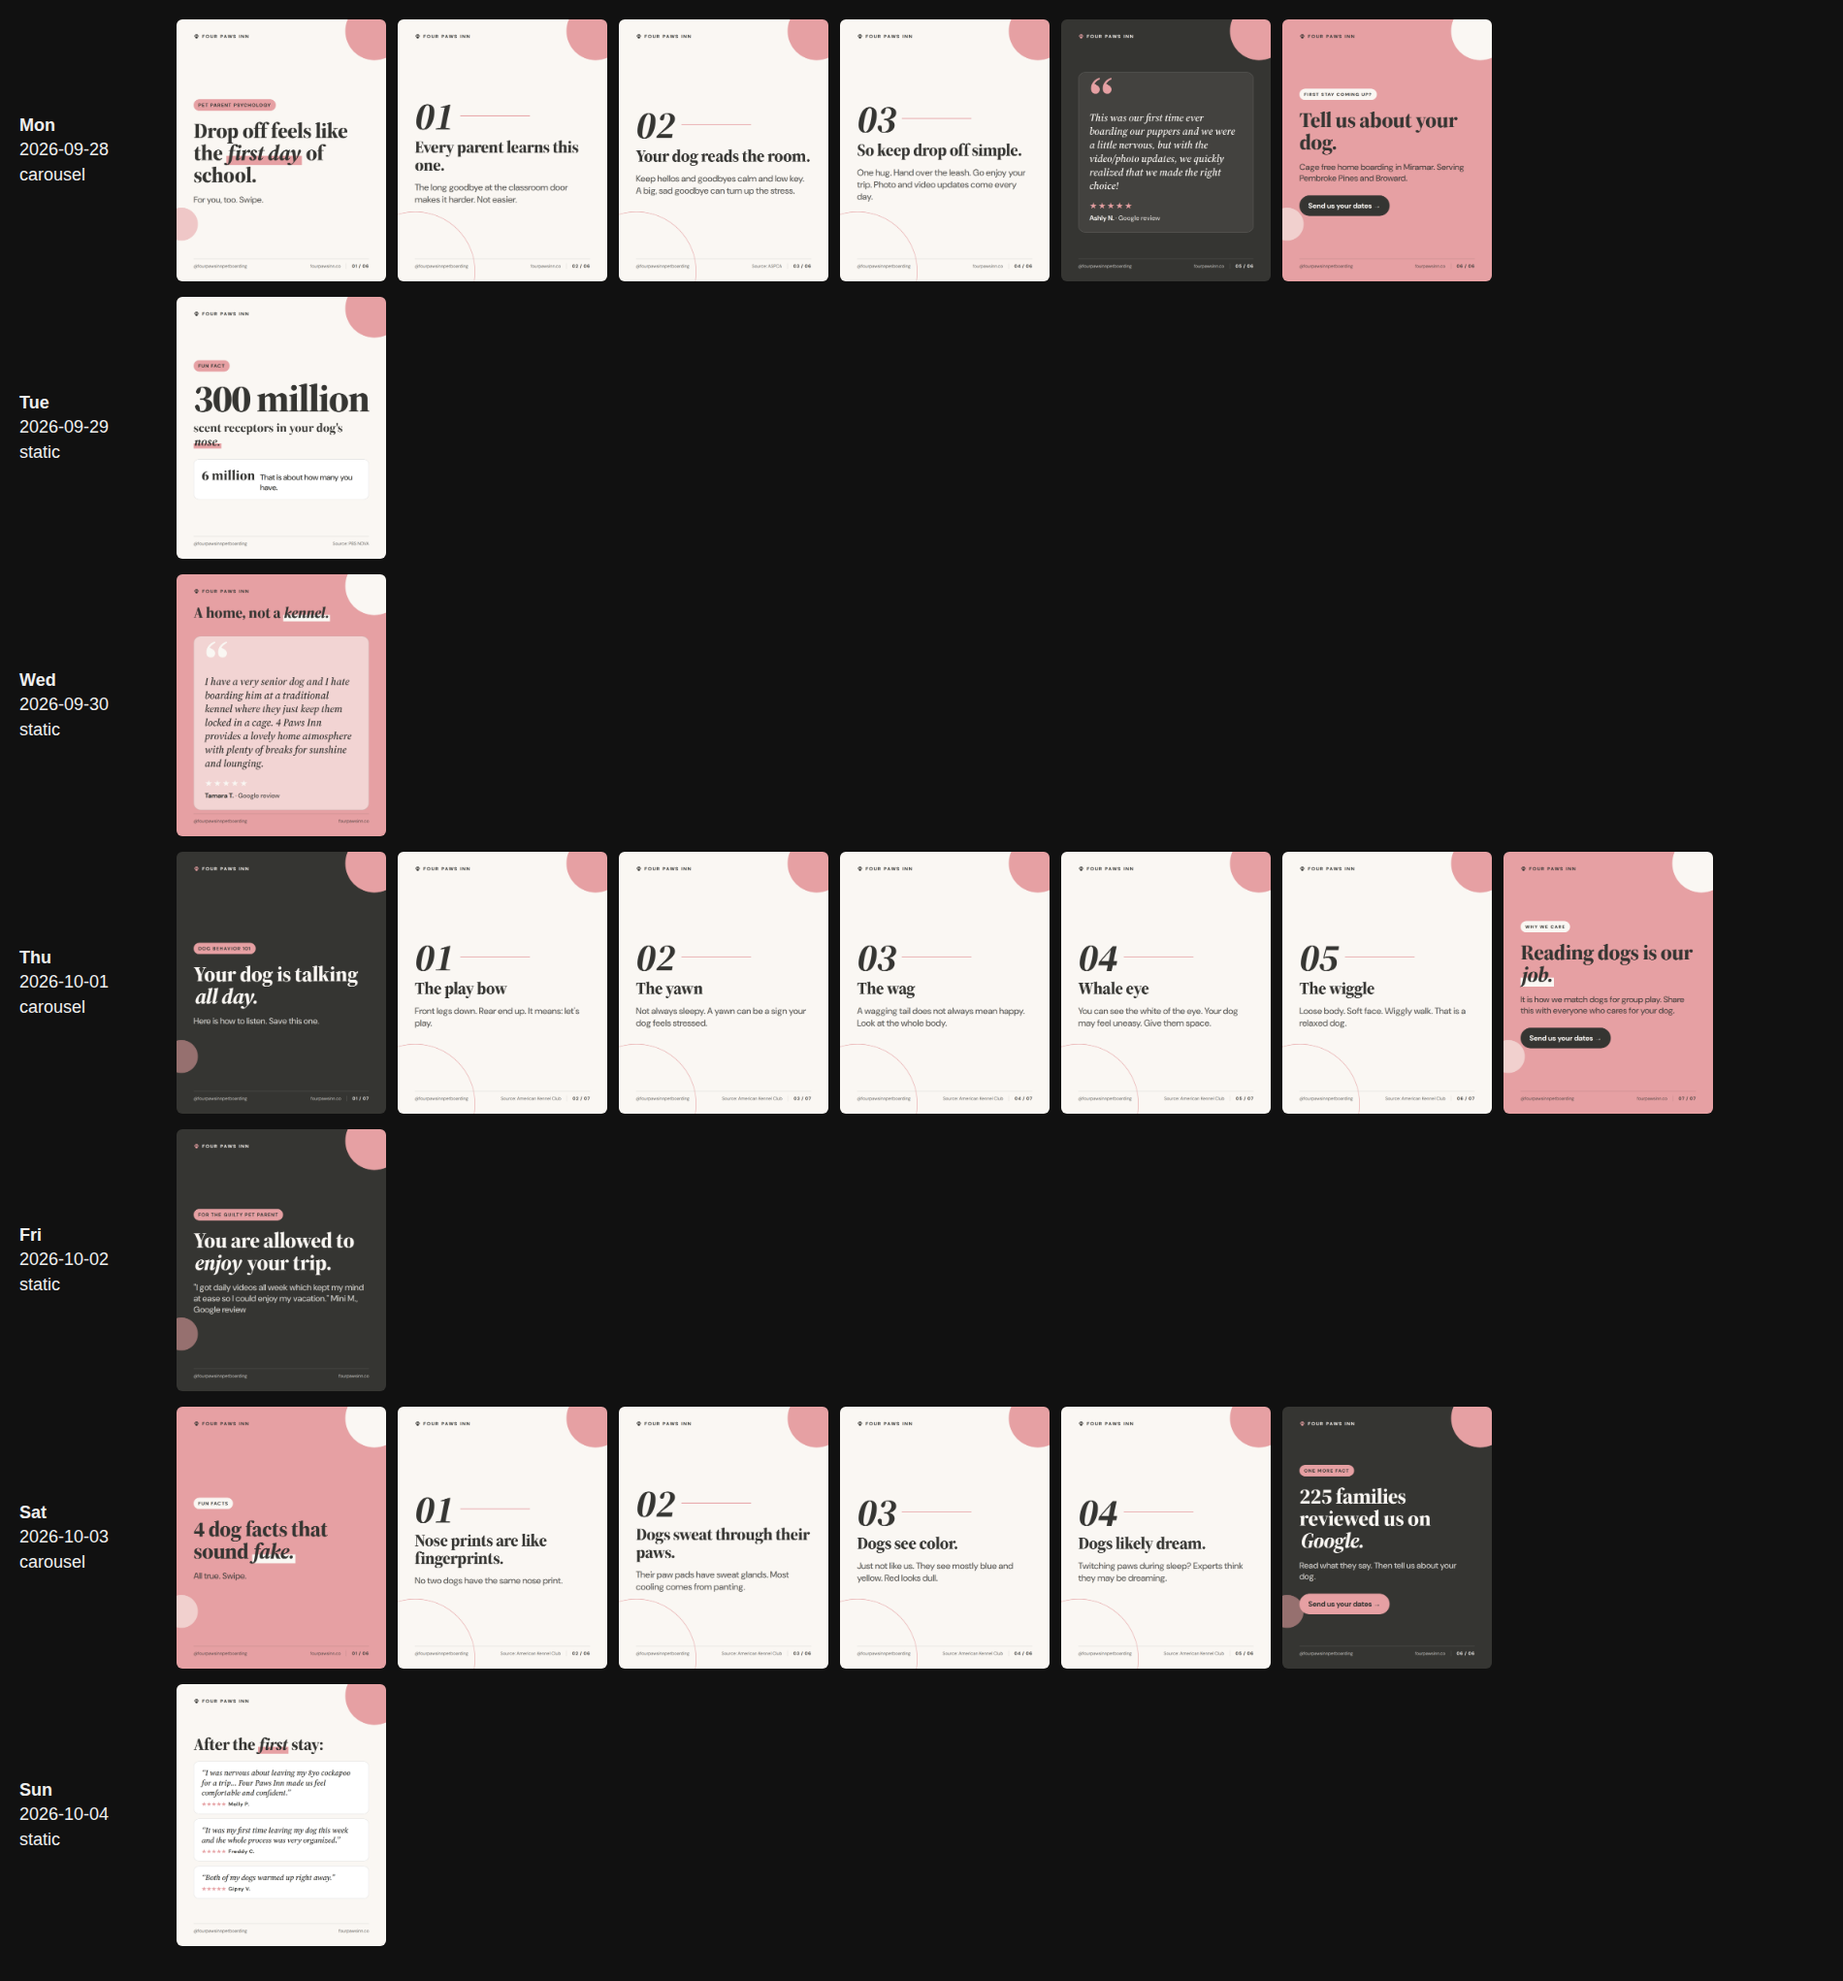
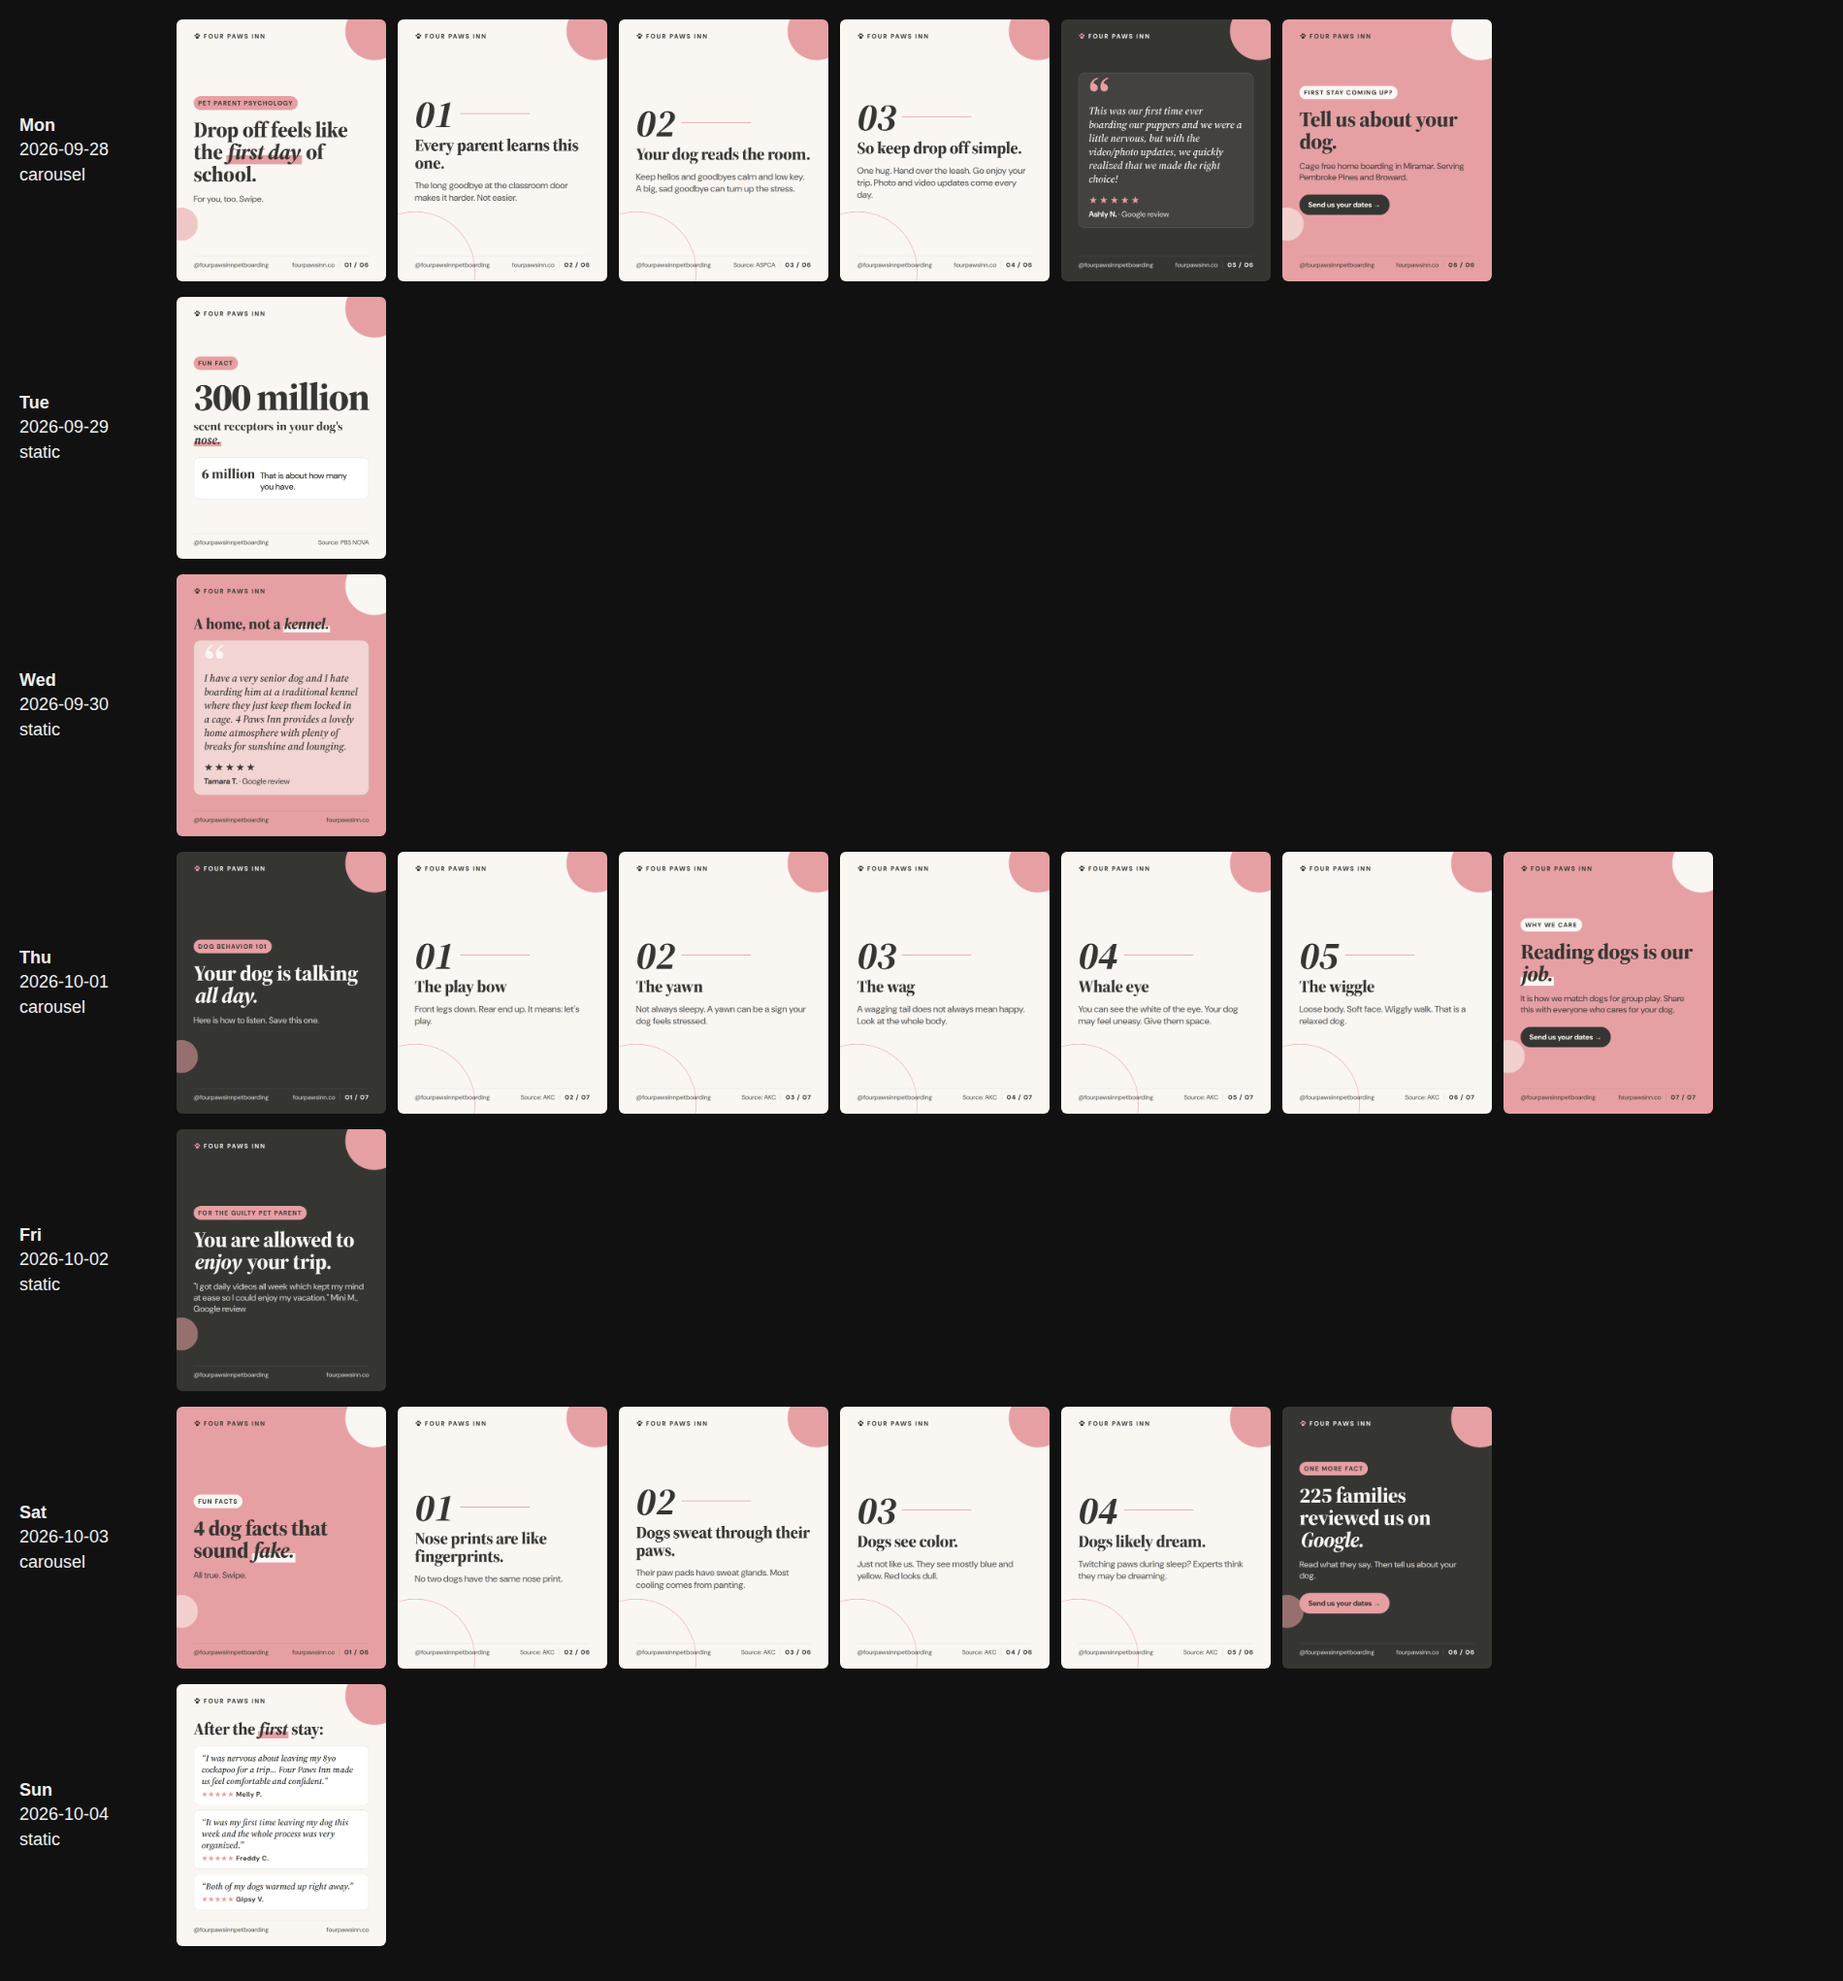
Enlarge small text for phone legibility and fix star contrast
Footer, wordmark, tags, reviewer names and review wall text enlarged so
nothing reads under about 11px on a 390px phone feed. Stars now use a
per theme color so they stay visible on pink cards. Quote layout
tightened. Runbook adds a phone size check.

Claude-Session: https://claude.ai/code/session_01CuiBP4cscBkzuvo8JUyMNz

diff --git a/scripts/morning-posts/render.js b/scripts/morning-posts/render.js
@@ -24,9 +24,9 @@ const H = 1350;
 // Pink is for shapes, highlights and accents. Text is always charcoal or cream so it stays readable.
 const BRAND = { cream: "#FAF7F3", pink: "#E6A0A3", charcoal: "#353532" };
 const THEMES = {
-  cream: { bg: BRAND.cream, fg: BRAND.charcoal, accent: BRAND.pink, ink: BRAND.charcoal, mark: BRAND.pink, soft: "rgba(53,53,50,0.78)", card: "#FFFFFF", line: "rgba(53,53,50,0.14)", btnBg: BRAND.charcoal, btnFg: BRAND.cream, kickBg: BRAND.pink, kickFg: BRAND.charcoal, shape: BRAND.pink },
-  pink: { bg: BRAND.pink, fg: BRAND.charcoal, accent: BRAND.charcoal, ink: BRAND.charcoal, mark: BRAND.cream, soft: "rgba(53,53,50,0.85)", card: "rgba(250,247,243,0.6)", line: "rgba(53,53,50,0.2)", btnBg: BRAND.charcoal, btnFg: BRAND.cream, kickBg: BRAND.cream, kickFg: BRAND.charcoal, shape: BRAND.cream },
-  charcoal: { bg: BRAND.charcoal, fg: BRAND.cream, accent: BRAND.pink, ink: BRAND.pink, mark: "transparent", soft: "rgba(250,247,243,0.78)", card: "rgba(250,247,243,0.07)", line: "rgba(250,247,243,0.18)", btnBg: BRAND.pink, btnFg: BRAND.charcoal, kickBg: BRAND.pink, kickFg: BRAND.charcoal, shape: BRAND.pink },
+  cream: { bg: BRAND.cream, fg: BRAND.charcoal, accent: BRAND.pink, ink: BRAND.charcoal, mark: BRAND.pink, soft: "rgba(53,53,50,0.78)", card: "#FFFFFF", line: "rgba(53,53,50,0.14)", btnBg: BRAND.charcoal, btnFg: BRAND.cream, kickBg: BRAND.pink, kickFg: BRAND.charcoal, shape: BRAND.pink, star: BRAND.pink },
+  pink: { bg: BRAND.pink, fg: BRAND.charcoal, accent: BRAND.charcoal, ink: BRAND.charcoal, mark: BRAND.cream, soft: "rgba(53,53,50,0.85)", card: "rgba(250,247,243,0.6)", line: "rgba(53,53,50,0.2)", btnBg: BRAND.charcoal, btnFg: BRAND.cream, kickBg: BRAND.cream, kickFg: BRAND.charcoal, shape: BRAND.cream, star: BRAND.charcoal },
+  charcoal: { bg: BRAND.charcoal, fg: BRAND.cream, accent: BRAND.pink, ink: BRAND.pink, mark: "transparent", soft: "rgba(250,247,243,0.78)", card: "rgba(250,247,243,0.07)", line: "rgba(250,247,243,0.18)", btnBg: BRAND.pink, btnFg: BRAND.charcoal, kickBg: BRAND.pink, kickFg: BRAND.charcoal, shape: BRAND.pink, star: BRAND.pink },
 };
 // Older week files used these names.
 THEMES.dark = THEMES.charcoal;
@@ -58,15 +58,15 @@ body{background:${t.bg};color:${t.fg};font-family:"DM Sans",sans-serif;position:
 .blob.b1{width:300px;height:300px;right:-90px;top:-90px}
 .blob.b2{width:170px;height:170px;left:-60px;bottom:210px;opacity:.55}
 .arc{position:absolute;left:-220px;bottom:-260px;width:620px;height:620px;border-radius:50%;border:3px solid ${t.shape};opacity:.8}
-.top{position:absolute;top:72px;left:88px;right:88px;display:flex;justify-content:space-between;align-items:center;font-size:24px;font-weight:700;letter-spacing:.2em;text-transform:uppercase;z-index:2}
+.top{position:absolute;top:66px;left:88px;right:88px;display:flex;justify-content:space-between;align-items:center;font-size:32px;font-weight:700;letter-spacing:.2em;text-transform:uppercase;z-index:2}
 .top .brand{display:flex;align-items:center;gap:14px}
-.top .brand i{display:block;width:30px;height:30px;color:${t.ink}}
-.bottom .count{margin-left:28px;padding-left:28px;border-left:2px solid ${t.line};font-weight:700;letter-spacing:.1em;color:${t.fg}}
-.bottom{position:absolute;bottom:64px;left:88px;right:88px;display:flex;justify-content:space-between;align-items:center;font-size:22px;color:${t.soft};border-top:2px solid ${t.line};padding-top:22px;z-index:2}
-.stage{position:absolute;top:170px;bottom:150px;left:88px;right:88px;display:flex;flex-direction:column;justify-content:center;z-index:2}
+.top .brand i{display:block;width:38px;height:38px;color:${t.ink}}
+.bottom .count{margin-left:24px;padding-left:24px;border-left:2px solid ${t.line};font-weight:700;letter-spacing:.1em;color:${t.fg}}
+.bottom{position:absolute;bottom:64px;left:88px;right:88px;display:flex;justify-content:space-between;align-items:center;font-size:32px;font-weight:500;color:${t.soft};border-top:2px solid ${t.line};padding-top:24px;z-index:2}
+.stage{position:absolute;top:160px;bottom:160px;left:88px;right:88px;display:flex;flex-direction:column;justify-content:center;z-index:2}
 h1,h2,.h1,.h2,.stat,.qhead,.wtitle,.statlabel{font-family:"Source Serif 4",serif}
 em{font-style:italic;color:${t.fg};background:linear-gradient(transparent 62%, ${t.mark} 62%, ${t.mark} 92%, transparent 92%);padding:0 .06em}
-.kicker{display:inline-block;align-self:flex-start;font-size:24px;font-weight:700;letter-spacing:.14em;text-transform:uppercase;padding:14px 24px;background:${t.kickBg};color:${t.kickFg};border-radius:999px;margin-bottom:44px}
+.kicker{display:inline-block;align-self:flex-start;font-size:32px;font-weight:700;letter-spacing:.14em;text-transform:uppercase;padding:14px 24px;background:${t.kickBg};color:${t.kickFg};border-radius:999px;margin-bottom:44px}
 .h1{font-size:112px;line-height:1.02;font-weight:800;letter-spacing:-.02em}
 .sub{font-size:44px;line-height:1.3;margin-top:44px;color:${t.soft};font-weight:500;max-width:880px}
 .num{font-family:"Source Serif 4",serif;font-style:italic;font-weight:700;font-size:200px;line-height:.85;color:${t.ink};margin-bottom:30px;display:flex;align-items:center;gap:30px}
@@ -75,20 +75,20 @@ em{font-style:italic;color:${t.fg};background:linear-gradient(transparent 62%, $
 .body{font-size:46px;line-height:1.35;margin-top:40px;font-weight:500;color:${t.soft};max-width:900px}
 .stat{font-size:200px;line-height:.92;font-weight:800;letter-spacing:-.03em;color:${t.ink}}
 .statlabel{font-size:64px;line-height:1.1;font-weight:700;margin-top:26px}
-.vs{margin-top:56px;display:flex;align-items:baseline;gap:26px;padding:34px 40px;background:${t.card};border-radius:28px;font-size:40px;line-height:1.3;font-weight:500;border:2px solid ${t.line}}
+.vs{margin-top:56px;display:flex;align-items:baseline;gap:26px;padding:34px 40px;background:${t.card};border-radius:28px;font-size:44px;line-height:1.3;font-weight:500;border:2px solid ${t.line}}
 .vs b{font-family:"Source Serif 4",serif;font-size:72px;font-weight:800;white-space:nowrap}
-.qmark{font-family:"Source Serif 4",serif;font-weight:800;font-size:320px;line-height:.55;color:${t.ink === "#353532" ? t.shape : t.ink};height:140px}
-.qhead{font-size:80px;line-height:1.04;font-weight:800;letter-spacing:-.02em;margin-bottom:80px}
+.qmark{font-family:"Source Serif 4",serif;font-weight:800;font-size:280px;line-height:.55;color:${t.ink === "#353532" ? t.shape : t.ink};height:110px}
+.qhead{font-size:80px;line-height:1.04;font-weight:800;letter-spacing:-.02em;margin-bottom:44px}
 .qtext{font-family:"Source Serif 4",serif;font-style:italic;font-weight:600;font-size:54px;line-height:1.3}
-.qcard{background:${t.card};border-radius:36px;padding:56px 56px 50px;border:2px solid ${t.line}}
-.stars{color:${t.ink === "#353532" ? t.shape : t.ink};font-size:44px;letter-spacing:.14em;margin-top:40px}
-.who{font-size:34px;font-weight:700;margin-top:12px}
+.qcard{background:${t.card};border-radius:36px;padding:48px 52px 44px;border:2px solid ${t.line}}
+.stars{color:${t.star};font-size:52px;letter-spacing:.14em;margin-top:40px}
+.who{font-size:40px;font-weight:700;margin-top:12px}
 .who span{font-weight:500;color:${t.soft}}
 .wall{display:flex;flex-direction:column;gap:24px;margin-top:44px}
 .wcard{background:${t.card};border-radius:28px;padding:32px 40px;border:2px solid ${t.line}}
-.wcard p{font-family:"Source Serif 4",serif;font-style:italic;font-weight:600;font-size:40px;line-height:1.28}
-.wcard div{margin-top:16px;font-size:26px;font-weight:700;letter-spacing:.06em}
-.wcard div b{color:${t.ink === "#353532" ? t.shape : t.ink};letter-spacing:.1em;margin-right:10px}
+.wcard p{font-family:"Source Serif 4",serif;font-style:italic;font-weight:600;font-size:46px;line-height:1.28}
+.wcard div{margin-top:16px;font-size:34px;font-weight:700;letter-spacing:.06em}
+.wcard div b{color:${t.star};letter-spacing:.1em;margin-right:10px}
 .wtitle{font-size:88px;line-height:1.02;font-weight:800;letter-spacing:-.02em}
 .btn{margin-top:60px;align-self:flex-start;display:flex;align-items:center;gap:20px;background:${t.btnBg};color:${t.btnFg};font-size:38px;font-weight:700;padding:28px 46px;border-radius:999px}
 .fine{margin-top:34px;font-size:34px;font-weight:500;color:${t.soft}}

diff --git a/scripts/morning-posts/README.md b/scripts/morning-posts/README.md
@@ -37,6 +37,7 @@ Aim for 3 carousels and 4 statics. Rotate through these pillars:
 3. **Render.**
    `NODE_PATH=$(npm root -g) node scripts/morning-posts/render.js <monday-date>`
    Then open `content/morning/<monday-date>/contact-sheet.png` and look at every slide at full size. Fix overflow or collisions before uploading.
+   Also check every slide at phone size (about 390 pixels wide, a third of the file). Any text under 32px in the 1080px file reads under 11px on a phone, so the renderer keeps footers, tags and reviewer names at 32px or larger. Stars and pink accents must stay visible on their card color.
 4. **Upload.** For each PNG, call `eden_prepare_scheduling_media_upload` (image/png, exact byte size), then PUT the file to the returned `uploadUrl` with curl and `Content-Type: image/png`. Signed URLs expire in 15 minutes, so upload in batches of about 7.
 5. **Schedule.** `eden_schedule_post` in workspace `1c2438f9-e773-4786-a8cb-121504399872`, schedule `6a07d7c7-8da0-4018-9b7f-6db1e423f3cd`, platforms instagram and facebook, `scheduledAtIso` = `<date>T07:30:00-04:00` (use `-05:00` after daylight saving ends on the first Sunday of November), idempotency key `fpi-morning-<date>`.
 6. **Record.** Write each `edenPostId` into `week.json`, append the week to `ledger.json`, commit, push.
